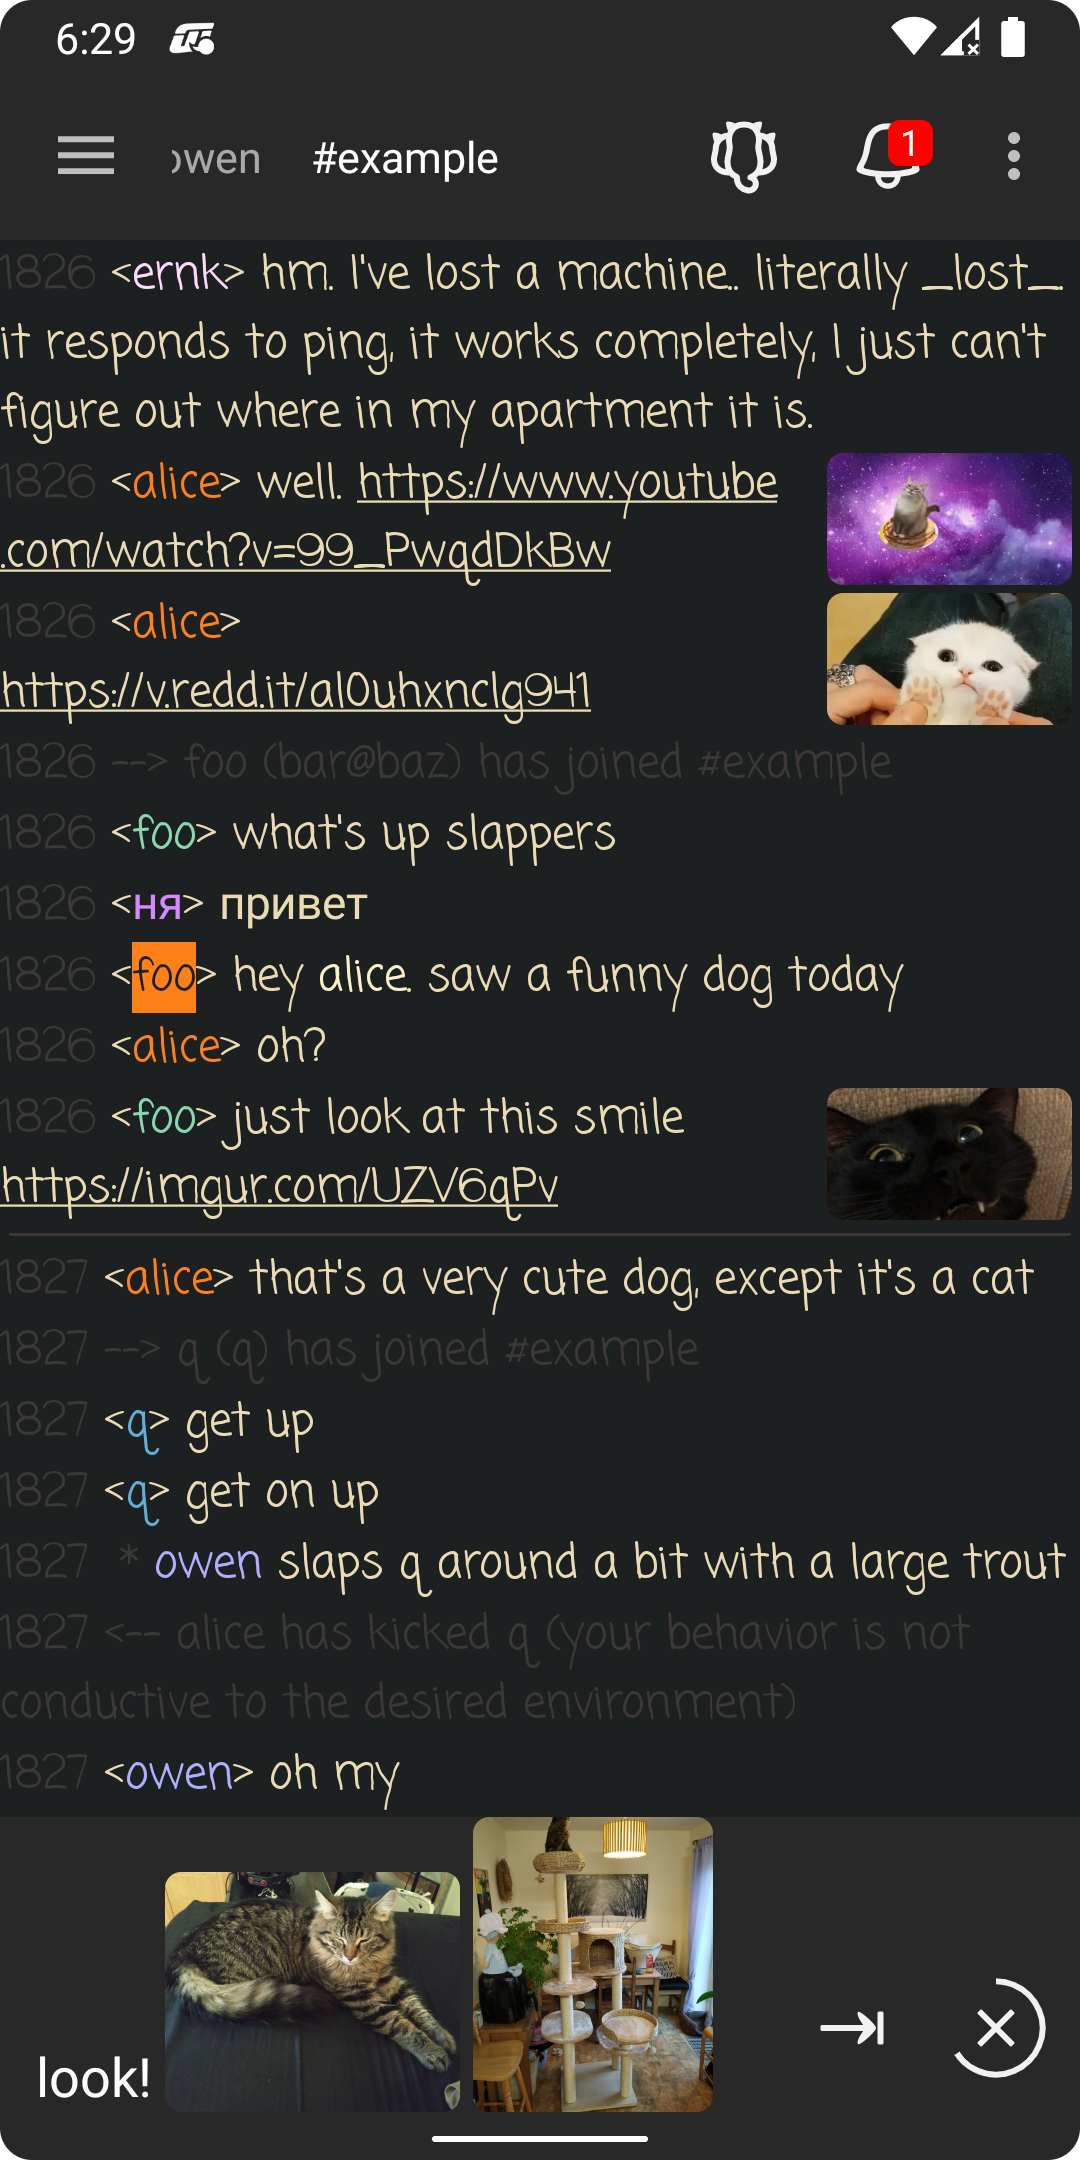
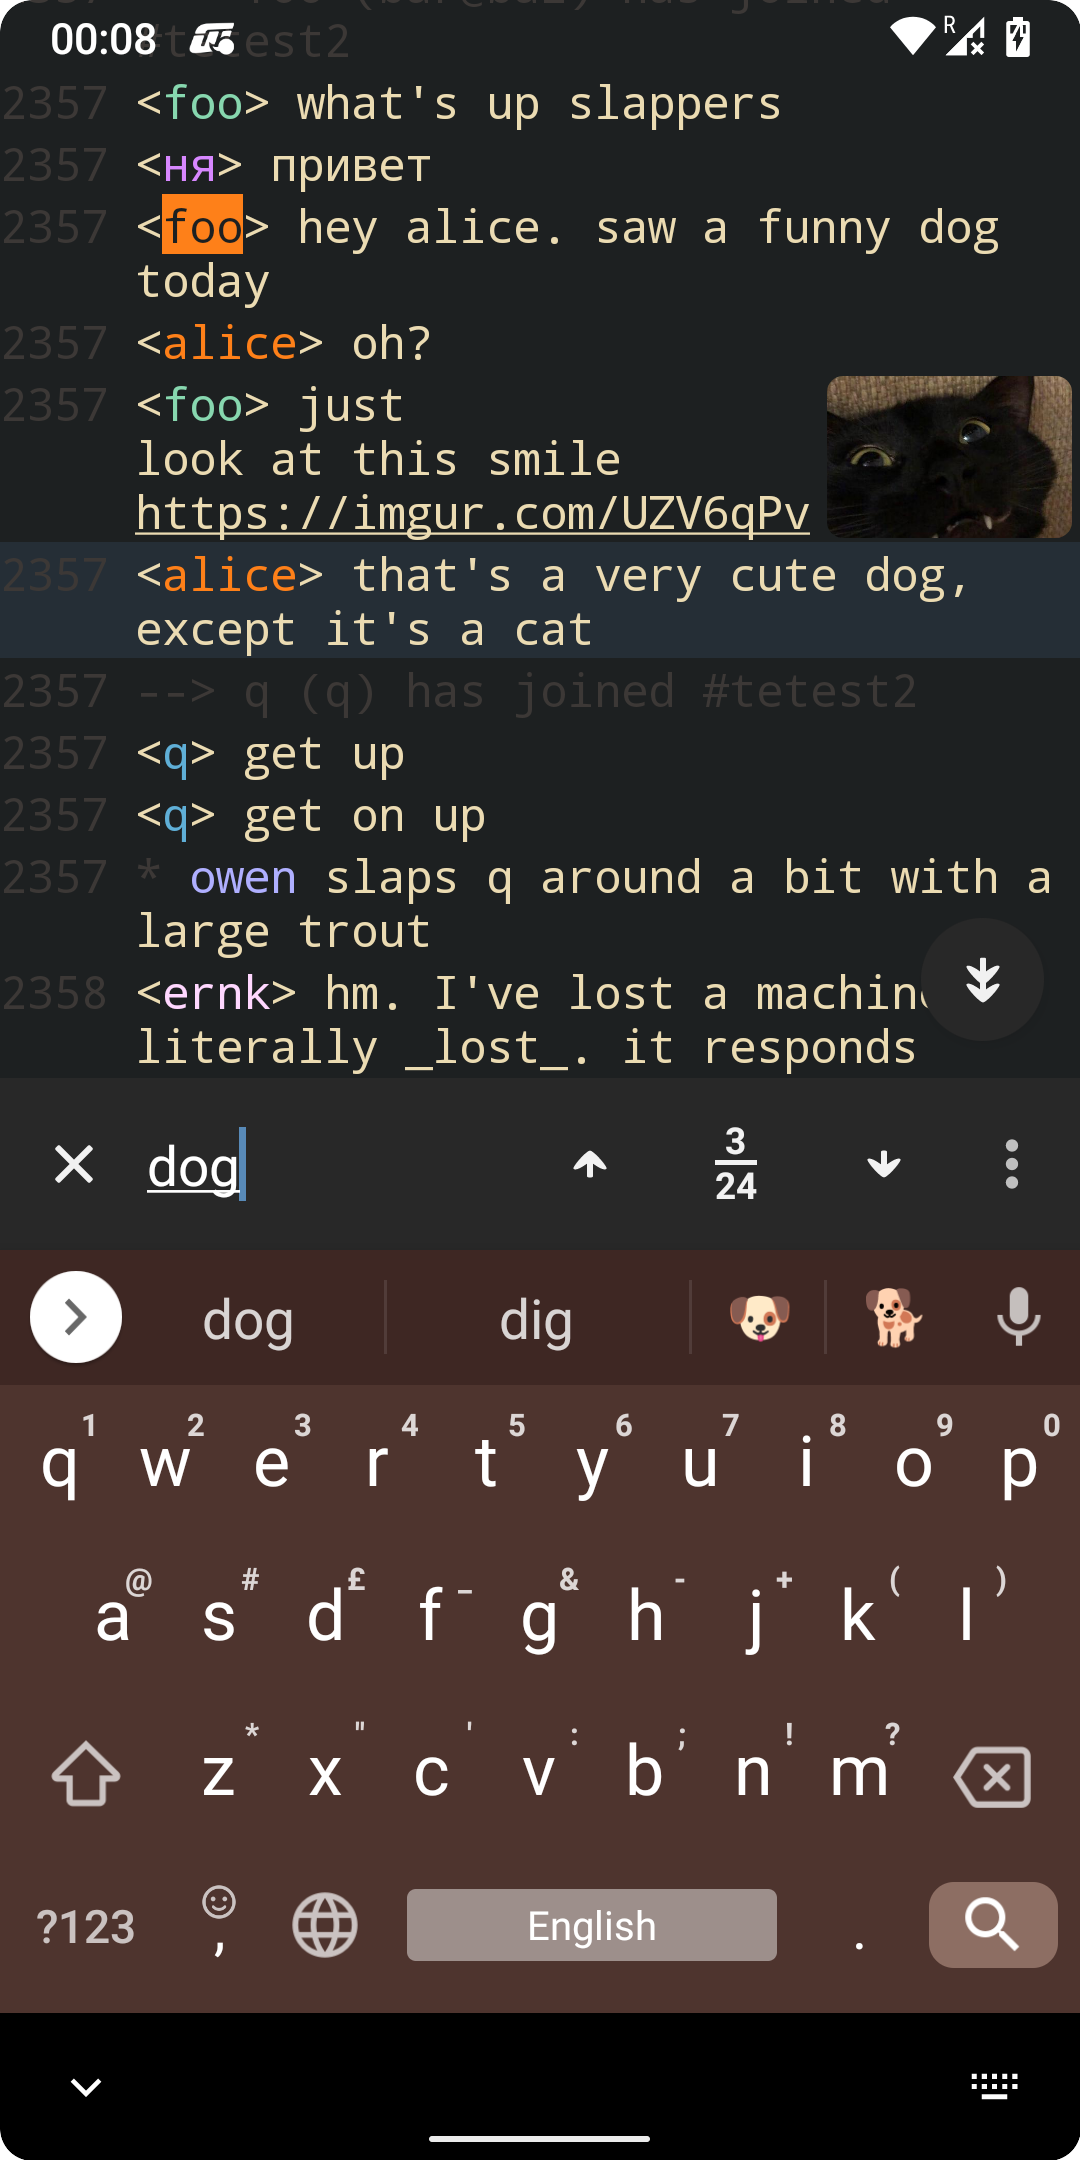
bump version to 1.6

diff --git a/Readme.md b/Readme.md
@@ -9,10 +9,8 @@ you will need to look elsewhere.
 [<img src="https://fdroid.gitlab.io/artwork/badge/get-it-on.png" alt="Get it on F-Droid" height="60">](https://f-droid.org/packages/com.ubergeek42.WeechatAndroid) 
 [<img src="https://play.google.com/intl/en_gb/badges/static/images/badges/en_badge_web_generic.png" alt="Get it on Google Play" height="60">](https://play.google.com/store/apps/details?id=com.ubergeek42.WeechatAndroid.dev)
 
-Please refer to the [quick start guide](https://github.com/ubergeek42/weechat-android/wiki/Quickstart-Guide) 
-for details. Make sure to check out our [FAQ](https://github.com/ubergeek42/weechat-android/wiki/FAQ).
-If you have problems connecting to WeeChat via SSL, note that while we support unsigned certificates,
-we are still verifying the hostname. This requires [additional care on Android](https://github.com/ubergeek42/weechat-android/wiki/Using-SSL-with-WeeChat).
+Follow our [Quickstart guide](https://github.com/ubergeek42/weechat-android/wiki/Quickstart-Guide) 
+to get up and running, and don't forget to read the [FAQ](https://github.com/ubergeek42/weechat-android/wiki/FAQ)!
 
 <a href="metadata/en-US/images/phoneScreenshots/screenshot-1.png"><img src="metadata/en-US/images/phoneScreenshots/screenshot-1.png" height="500px"></a>
 <a href="metadata/en-US/images/phoneScreenshots/screenshot-2.png"><img src="metadata/en-US/images/phoneScreenshots/screenshot-2.png" height="500px"></a>
@@ -23,21 +21,29 @@ we are still verifying the hostname. This requires [additional care on Android](
 
 ### Bug reports and contributing
 
-Please report any bugs or feature requests here on GitHub. You can also find us on #weechat-android 
-on freenode. When reporting an issue, please include build ID that you can find in Settings → About 
+Report any bugs or feature requests here on GitHub. You can also find us on #weechat-android 
+on freenode. When reporting an issue, make sure to include build ID that you can find in Settings → About 
 (looks something like “v0.13-123-g1234567”).
 
-It is easy to start contributing to Weechat-Android! Fork the repo, install Android Studio, choose
-“Check out from Version Control”, and you should be good to go. Pull requests are welcome—but please
-check with us on IRC before starting a substantial rewrite! For additional information, see:
- 
- * [Introduction to Android Studio](https://developer.android.com/studio/intro)
- * [WeeChat user’s guide](https://weechat.org/files/doc/devel/weechat_user.en.html)
- * [WeeChat developer’s guide](https://weechat.org/files/doc/devel/weechat_dev.en.html) 
- * [WeeChat Relay protocol](https://weechat.org/files/doc/devel/weechat_relay_protocol.en.html) 
- * [WeeChat plugin API reference](https://weechat.org/files/doc/devel/weechat_plugin_api.en.html) 
- 
+If you want to contribute, check out our 
+[Getting started with the code](https://github.com/ubergeek42/weechat-android/wiki/Getting-started-with-the-code)
+guide. It also includes instructions for building from command line. 
+Pull requests are welcome—but please check with us on IRC before starting a substantial rewrite!
+
 ### Changelog
+
+##### v1.6
+* Added search functionality
+* Added a floating “go to bottom” button
+* Added a connectivity indicator
+* Copy dialog can now select text and copy several messages at once
+* Interface is no longer locked up while disconnected
+* Chat lines are no longer thrown away when not synchronizing
+* Chat scroll position is now remembered on rotation
+* App is now drawn behind system bars on supported devices
+* Added new chat line change animations
+* Local tab completer is no longer used when completing command-like text
+* A lot of internal changes and bug fixes
 
 ##### v1.5.1
 * Fixed a crash when the password has never been set
